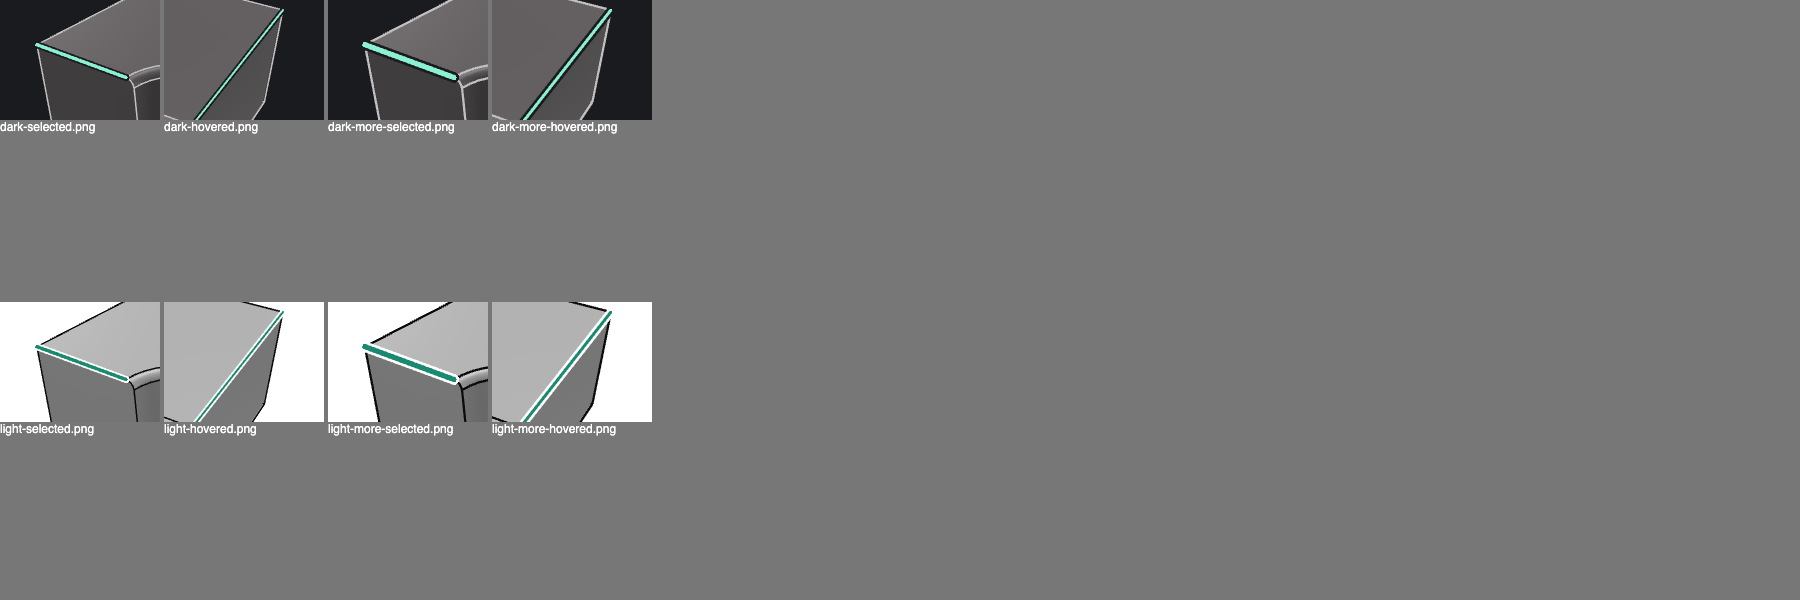
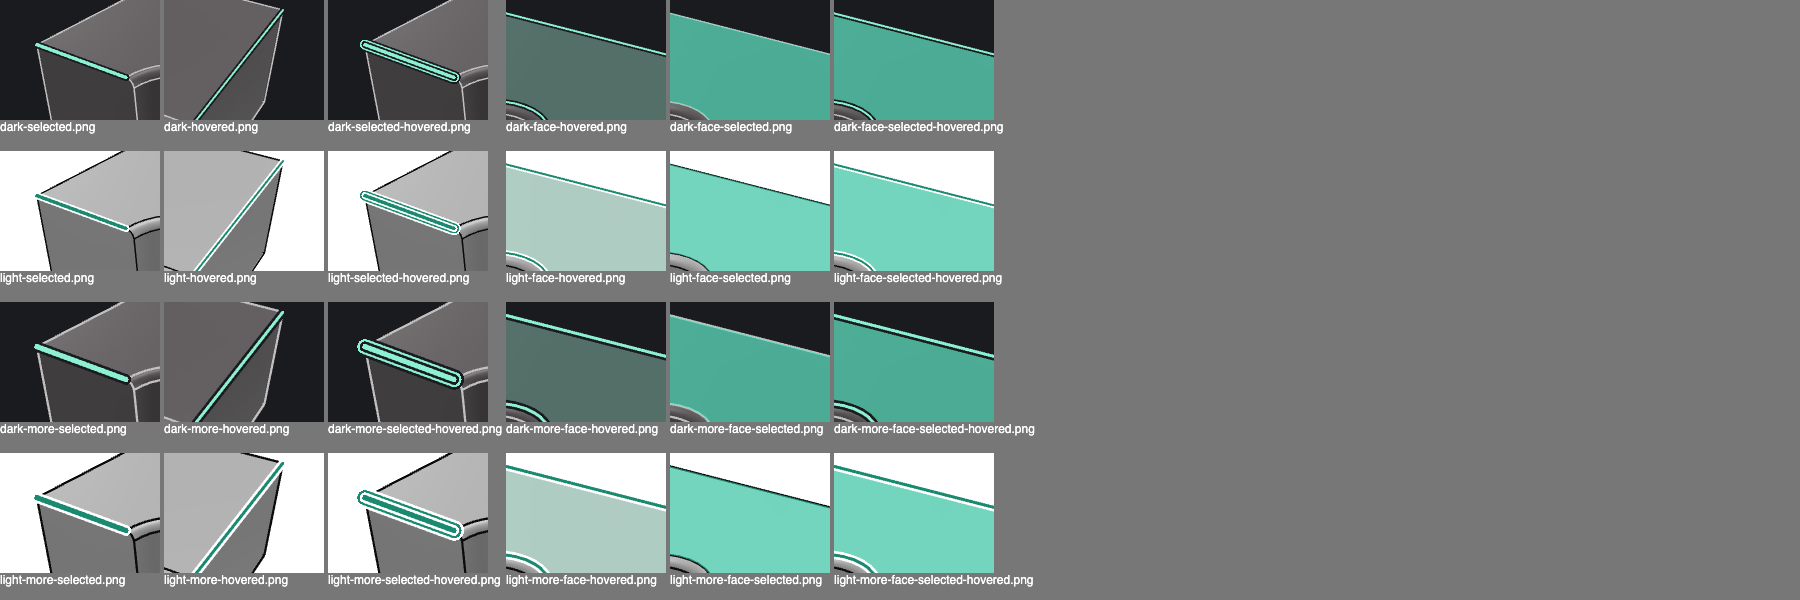
Show hover and selection together: a thin and a thick line
A selection is a thick line and a hover a thin one, and hovering a
selection adds the thin line, so both show: a hovered selected edge gets
a ring, a hovered face an outline (also over the selection's fill), and
timeline entries a 3 px outline when open, 1 px when hovered, and a line
inside the open one's when it is hovered. 1 px against 2 px around the
entries looked the same.

diff --git a/src/cad/src/components/Viewer.tsx b/src/cad/src/components/Viewer.tsx
@@ -164,6 +164,29 @@ const entityKey = (e: Entity | undefined) => (e ? `${e.body}:${e.kind}:${e.index
 const same = (a: Entity | undefined, b: Entity | undefined) => !!a && !!b && a.body === b.body && a.kind === b.kind && a.index === b.index;
 
 /**
+ * The outline of non-indexed triangles: the triangle edges that only one of them has. Vertices are
+ * matched by position, as a mesh repeats them along seams and between faces, so edges between two
+ * of the faces cancel out too.
+ */
+function outline(triangles: THREE.BufferGeometry): THREE.BufferGeometry {
+  const p = triangles.getAttribute("position");
+  const key = (i: number) => `${p.getX(i).toFixed(4)},${p.getY(i).toFixed(4)},${p.getZ(i).toFixed(4)}`;
+  const edges = new Map<string, [number, number] | undefined>();
+  for (let t = 0; t + 2 < p.count; t += 3) {
+    for (const [a, b] of [[t, t + 1], [t + 1, t + 2], [t + 2, t]] as const) {
+      const [ka, kb] = [key(a), key(b)];
+      const k = ka < kb ? `${ka}|${kb}` : `${kb}|${ka}`;
+      // A second triangle with this edge: it is inside.
+      if (edges.has(k)) edges.set(k, undefined);
+      else edges.set(k, [a, b]);
+    }
+  }
+  const values: number[] = [];
+  for (const edge of edges.values()) if (edge) for (const v of edge) values.push(p.getX(v), p.getY(v), p.getZ(v));
+  return new THREE.BufferGeometry().setAttribute("position", new THREE.Float32BufferAttribute(values, 3));
+}
+
+/**
  * A copy of the triangles or segments of the mesh groups whose entity is in `indices`, as a
  * non-indexed geometry of its own (a geometry that shares attributes would free them on dispose).
  */
@@ -270,7 +293,10 @@ export function Viewer(props: ViewerProps) {
     // A highlighted edge is a line over a wider halo in the theme's dark or light ink, whichever
     // contrasts with it, so one of the two contrasts with whatever is behind it.
     const inks = [themeColor(container, "--cad-model-bg"), themeColor(container, "--cad-model-fg")].sort((a, b) => luminance(a) - luminance(b));
-    const highlightLine = (color: THREE.Color, width: number) => ({ core: wideLine(color, width, true), halo: wideLine(luminance(color) > 0.35 ? inks[0]! : inks[1]!, width + 3.5, true) });
+    const inkFor = (color: THREE.Color) => (luminance(color) > 0.35 ? inks[0]! : inks[1]!);
+    const highlightLine = (color: THREE.Color, width: number) => ({ core: wideLine(color, width, true), halo: wideLine(inkFor(color), width + 3.5, true) });
+    // Hovering a selected edge adds the hover's thin line as a ring around the selection, in its halo.
+    const ringMaterials = { line: wideLine(accentLine, 10, true), halo: wideLine(inkFor(accentLine), 13.5, true) };
     // Hovered and selected edges have one colour; a hover is thinner.
     const highlightMaterials: Record<Exclude<HighlightStyle, "peer">, { face: THREE.Material; line: { core: LineMaterial; halo: LineMaterial } }> = {
       hover: { face: highlightFace(hover, 0.35), line: highlightLine(accentLine, 2) },
@@ -549,6 +575,10 @@ export function Viewer(props: ViewerProps) {
       highlightGroup.clear();
       const own = (entity: Entity | undefined, style: HighlightStyle): Highlight[] => (entity ? [{ body: entity.body, kind: entity.kind, indices: [entity.index], style }] : []);
       const all = [...(props.highlight ?? []), ...own(selected(), "accent"), ...own(hovered(), "hover")];
+      /** The selected edge is hovered: it gets the ring, and the hover no line of its own. */
+      const ringed = selected()?.kind === "edge" && same(selected(), hovered());
+      /** The selected face is hovered: it keeps the selection's fill, and gets the hover's outline. */
+      const hoveredSelectedFace = selected()?.kind === "face" && same(selected(), hovered());
       highlighted = all.flatMap((h) => h.indices.map((index) => ({ style: h.style, entity: { body: h.body, kind: h.kind, index } })));
       for (const h of all) {
         const r = h.shape ? undefined : rendered.find((x) => x.id === h.body);
@@ -567,11 +597,24 @@ export function Viewer(props: ViewerProps) {
         const geometry = subset(source, indexOf, h.indices);
         temporary?.dispose();
         const { face, line } = materialsOf(h);
-        if (h.kind === "face") highlightGroup.add(new THREE.Mesh(geometry, face));
-        else {
-          highlightGroup.add(Object.assign(wideSegments(geometry, line.halo), { renderOrder: 0 }), Object.assign(wideSegments(geometry, line.core), { renderOrder: 1 }));
-          geometry.dispose();
+        if (h.kind === "face") {
+          const ownHover = h.style === "hover" && h.indices.length === 1 && same({ body: h.body, kind: h.kind, index: h.indices[0]! }, hovered());
+          if (!(hoveredSelectedFace && ownHover)) highlightGroup.add(new THREE.Mesh(geometry, face));
+          // A hover, of a face or of a feature's faces, is outlined with the hover's thin line, also over a selection.
+          if (h.style === "hover") {
+            const edges = outline(geometry);
+            highlightGroup.add(...[line.halo, line.core].map((material, i) => Object.assign(wideSegments(edges, material), { renderOrder: i })));
+            edges.dispose();
+          }
+          if (hoveredSelectedFace && ownHover) geometry.dispose();
         }
+        else if (!(ringed && h.style === "hover" && same({ body: h.body, kind: h.kind, index: h.indices[0]! }, hovered()))) {
+          const ring = ringed && h.style === "accent" && same({ body: h.body, kind: h.kind, index: h.indices[0]! }, selected());
+          // Outermost first.
+          const layers = [...(ring ? [ringMaterials.halo, ringMaterials.line] : []), line.halo, line.core];
+          highlightGroup.add(...layers.map((material, i) => Object.assign(wideSegments(geometry, material), { renderOrder: i })));
+          geometry.dispose();
+        } else geometry.dispose();
       }
     });
 
@@ -915,7 +958,7 @@ export function Viewer(props: ViewerProps) {
       dotGeometry.dispose();
       pmrem.dispose();
       scene.environment?.dispose();
-      for (const m of [faceMaterial, edgeMaterial, lineMaterial, overlayMaterial, ...Object.values(highlightMaterials).flatMap((m) => [m.face, m.line.core, m.line.halo]), ...[...peerMaterials.values()].flatMap((m) => [m.face, m.line.core, m.line.halo, m.marker])]) m.dispose();
+      for (const m of [ringMaterials.line, ringMaterials.halo, faceMaterial, edgeMaterial, lineMaterial, overlayMaterial, ...Object.values(highlightMaterials).flatMap((m) => [m.face, m.line.core, m.line.halo]), ...[...peerMaterials.values()].flatMap((m) => [m.face, m.line.core, m.line.halo, m.marker])]) m.dispose();
       renderer.dispose();
     });
   });

diff --git a/src/harness/e2e/tests/cad-render-shots.spec.ts b/src/harness/e2e/tests/cad-render-shots.spec.ts
@@ -16,10 +16,10 @@ test.use({ siteModules: CAD_MODULES, viewport: { width: 900, height: 700 } });
 
 const viewer = (page: Page) => page.locator(".cad-model__viewer").first();
 type Hook = { cadViewer: { screenPoint(e: Entity): { x: number; y: number } | undefined; centroid(e: Entity): number[] | undefined } };
-/** The visible edge whose centroid is nearest to a point of M1 (a 60 × 40 × 20 block, seen from the front right). */
-async function edgeNear(page: Page, near: [number, number, number]): Promise<Entity> {
+/** The visible edge or face whose centroid is nearest to a point of M1 (a 60 × 40 × 20 block, seen from the front right). */
+async function edgeNear(page: Page, near: [number, number, number], kind: "edge" | "face" = "edge"): Promise<Entity> {
   let best: { e: Entity; d: number } | undefined;
-  for (const e of await entities(page, "edge")) {
+  for (const e of await entities(page, kind)) {
     const c = await viewer(page).evaluate((el, x) => (el as unknown as Hook).cadViewer.centroid(x), e);
     const d = c ? Math.hypot(c[0]! - near[0], c[1]! - near[1], c[2]! - near[2]) : Infinity;
     if ((!best || d < best.d) && (await isVisible(page, e))) best = { e, d };
@@ -68,7 +68,36 @@ for (const [colorScheme, contrast] of [["dark", "no-preference"], ["light", "no-
         await page.waitForTimeout(300);
         await viewer(page).screenshot({ path: `${dir}/${mode}.png` });
         // Details around both edges, for the edges themselves.
-        for (const [name, p] of [["selected", s], ["hovered", h]] as const) await page.screenshot({ path: `${dir}/${mode}-${name}.png`, clip: { x: p.x - 80, y: p.y - 60, width: 160, height: 120 } });
+        const detail = (name: string, p: { x: number; y: number }) => page.screenshot({ path: `${dir}/${mode}-${name}.png`, clip: { x: p.x - 80, y: p.y - 60, width: 160, height: 120 } });
+        await detail("selected", s);
+        await detail("hovered", h);
+        // Hovering the selected edge, and a selected face.
+        await page.mouse.move(s.x, s.y);
+        await expect(viewer(page)).toHaveAttribute("data-hovered", `${selected.body}:edge:${selected.index}`);
+        await page.waitForTimeout(300);
+        await detail("selected-hovered", s);
+        const top = await edgeNear(page, [45, 25, 20], "face");
+        const t = (await screenPoint(page, top))!;
+        // Hovered alone first; the edge stays selected.
+        await page.mouse.move(t.x, t.y);
+        await expect(viewer(page)).toHaveAttribute("data-hovered", `${top.body}:face:${top.index}`);
+        await page.waitForTimeout(300);
+        await detail("face-hovered", t);
+        await page.mouse.click(t.x, t.y);
+        await expect(viewer(page)).toHaveAttribute("data-selected", `${top.body}:face:${top.index}`);
+        await page.waitForTimeout(300);
+        await detail("face-selected-hovered", t);
+        await page.mouse.move(5, 5);
+        await page.waitForTimeout(300);
+        await detail("face-selected", t);
+        // The timeline: sketch2 open, sketch1 hovered; then sketch2 hovered too.
+        const timeline = page.locator(".cad-editor__timeline-wrap");
+        await timelineEntry(page, "sketch2").click();
+        await timelineEntry(page, "sketch1").hover();
+        await timeline.screenshot({ path: `${dir}/${mode}-timeline.png` });
+        await timelineEntry(page, "sketch2").hover();
+        await timeline.screenshot({ path: `${dir}/${mode}-timeline-open-hovered.png` });
+        await timelineEntry(page, "sketch2").click();
         // From the back left and above, where the fixed light doesn't reach the faces in view.
         await clickViewCube(page, [-1, 1, 1]);
         await expect(viewer(page)).toHaveAttribute("data-turning", "false");

diff --git a/src/cad/src/styles.css b/src/cad/src/styles.css
@@ -625,15 +625,23 @@
   filter: grayscale(1);
 }
 
-/* The hovered, dragged or open entry stands out most, the open one thicker, as a selected edge; what it relates to gets a coloured border. */
-.cad-editor__entry[data-focused="true"] {
+/*
+ * As hovered and selected edges (research/14): the open entry has a thick outline, the hovered or
+ * dragged one a thin one, and hovering the open one adds the thin line inside the thick one; outside,
+ * the scrolling timeline would clip it. What the focused entry relates to gets a coloured border.
+ */
+.cad-editor__entry[data-hovered="true"] {
   outline: 1px solid var(--cad-model-fg);
-  outline-offset: 1px;
+  outline-offset: 2px;
 }
 
 .cad-editor__entry[aria-pressed="true"] {
-  outline: 2px solid var(--cad-model-fg);
+  outline: 3px solid var(--cad-model-fg);
   outline-offset: 1px;
+}
+
+.cad-editor__entry[aria-pressed="true"][data-hovered="true"] {
+  box-shadow: inset 0 0 0 1px var(--cad-model-fg);
 }
 
 .cad-editor__entry[data-relation="dependency"] {

diff --git a/src/harness/e2e/tests/cad-timeline.spec.ts b/src/harness/e2e/tests/cad-timeline.spec.ts
@@ -268,7 +268,7 @@ test("highlights keep their colours past the marker, and the focused entry stand
   // The hovered entry gets a thin outline, the open one a thick outline and no extra border, as hovered and selected edges.
   expect(await style(timelineEntry(page, "notch"))).toMatchObject({ outline: "solid 1px" });
   const open = await style(timelineEntry(page, "chamfer1"));
-  expect(open.outline).toBe("solid 2px");
+  expect(open.outline).toBe("solid 3px");
   // chamfer1 is past the marker and depends on notch through a reference: a solid border in the dependent colour, not greyed.
   expect(open).toMatchObject({ border: open.warning, borderStyle: "solid", filter: "none" });
   // fillet1, before the marker, depends on notch, too (body and reference).

diff --git a/src/cad/src/components/editor/state.ts b/src/cad/src/components/editor/state.ts
@@ -57,6 +57,7 @@ export interface Editor {
   /** Where another marker, e.g. a collaborator's, is in the timeline. */
   markerOf(marker: TimelineMarker | undefined): number;
   /** The entry being hovered or dragged in the timeline. */
+  hovered: Accessor<number | undefined>;
   setHovered(index: number | undefined): void;
   setDragging(index: number | undefined): void;
   dragging: Accessor<number | undefined>;
@@ -477,6 +478,7 @@ export function createEditor(handle: DocHandle<CadModelDoc>, model: Model, ui: P
     marker,
     markerOf: (m: TimelineMarker | undefined) => (syntaxError() ? tl().entries.length : markerIn(tl(), m)),
     setMarker,
+    hovered: () => dragging() ?? hovered(),
     setHovered,
     setDragging,
     dragging,

diff --git a/src/cad/src/components/editor/Timeline.tsx b/src/cad/src/components/editor/Timeline.tsx
@@ -296,6 +296,9 @@ export function Timeline(props: { editor: Editor; onOpenCode: (span: Span) => vo
     get "data-focused"() {
       return editor.focused() === index ? "true" : undefined;
     },
+    get "data-hovered"() {
+      return editor.hovered() === index ? "true" : undefined;
+    },
     get "data-cross-hover"() {
       return editor.crossHovered().has(index) ? "true" : undefined;
     },

diff --git a/research/14-edge-contrast.md b/research/14-edge-contrast.md
@@ -38,6 +38,8 @@ Screenshots of M1 with the top's front edge selected and its right edge hovered,
 - **A grey body makes plain edges readable** in both modes and from every side. studio also keeps faces apart, top lighter than sides, and its reflections move with the camera, as in Fusion. matcap separates faces less, and its shading, derived from the same grey, makes it too dark in light mode.
 - **Wide lines alone don't fix highlights:** a 3.5 px line in the accent colour still vanishes on a face of similar lightness (fat).
 - **A halo in the contrasting ink does:** every highlight is a light line on dark or a dark line on light, so one of the two tones contrasts with whatever is behind it: faces, background and other edges, in both modes. A halo in the background colour, tried first, fails for the hover colour, which is the accent mixed towards the background, so core and halo were alike.
+- **Hover by weight** must differ a lot: around timeline entries, a 1 px outline next to a 2 px one looked the same.
+- **Hover over a selection** must show too: a hover line under or inside the selection's is hidden.
 - **Hover by hue** is unmistakable, but the theme has no hue to spare. Every theme defines primary, secondary, danger, warning and link (`--studio-*`); primary marks selections, secondary comments ([13](13-collaboration.md#comments)), warning a feature's dependents, danger errors, and link is another blue. Syntax colours exist only in some themes: in the base theme `--syntax-keyword: var(--text-editor-line)`, and so are the others. Any hue can also be a collaborator's presence colour. So hover differs by weight.
 
 ## The rendering
@@ -46,13 +48,17 @@ Screenshots of M1 with the top's front edge selected and its right edge hovered,
 
 - **Bodies** are the studio variant: `--cad-model-shape` is the background mixed with 30 % of the text colour, roughness 0.45, metalness 0.15, under a hemisphere light, a key light above and left of the camera that follows it, and a room environment at intensity 0.35.
 - **Edges** are 1.5 px in the text colour, 15 % towards the background (`--cad-model-edge`). Picking still raycasts the 1 px lines, which aren't drawn.
-- **Hovered and selected edges** share the accent's text colour; hover is 2 px, a selection 3.5 px, a collaborator's 3 px in their colour, each over a halo 3.5 px wider in the darker of background and text colour if the line is light (luminance > 0.35), else the lighter.
-- **The timeline** follows the same rule: the hovered entry gets a 1 px outline, the open one 2 px.
+- **One rule for hover and selection:** a selection is a thick line, a hover a thin one, and hovering a selection adds the thin line to the thick one, so both show.
+  - **Edges** share the accent's text colour; hover is 2 px, a selection 3.5 px, a collaborator's 3 px in their colour, each over a halo 3.5 px wider in the darker of background and text colour if the line is light (luminance > 0.35), else the lighter. A hovered selection gets a 10 px accent ring in a 13.5 px halo around it.
+  - **Faces** keep their fills, hover pale and selection in the accent, and a hover is outlined with the hover's line: the triangle edges of the hovered faces that only one triangle has, by position, so a hovered feature's faces get one outline. A hovered selected face keeps the selection's fill and gets the outline.
+  - **Timeline entries:** the open one has a 3 px outline, the hovered or dragged one 1 px, 2 px off it; hovering the open one adds a 1 px line inside it, where the scrolling timeline doesn't clip it.
 - **`prefers-contrast: more`** makes every line 1.5 times wider.
 
 ![The result: dark and light mode, home view and turned](14-edge-contrast/result.png)
 
-![Selected and hovered edge: dark, then light; each without and with prefers-contrast: more](14-edge-contrast/result-details.png)
+![Per row: selected edge, hovered edge, hovered selected edge, hovered face, selected face, hovered selected face; rows dark, light, then both with prefers-contrast: more](14-edge-contrast/result-details.png)
+
+![The timeline with sketch2 open: sketch1 hovered, then sketch2 hovered; dark, then light](14-edge-contrast/result-timeline.png)
 
 [`cad-render-shots.spec.ts`](../src/harness/e2e/tests/cad-render-shots.spec.ts) takes these screenshots:
 
@@ -63,5 +69,4 @@ CAD_RENDER_SHOTS=<dir> pnpm test:e2e --project=chromium --workers=1 cad-render-s
 ## Open
 
 - The grey's lightness per mode, e.g. lighter in light mode; with more contrast, a grey further from the background.
-- Highlighted faces are unchanged: hover pale, selection in the accent.
 - The sketch outline in the view is still a 1 px line.

diff --git a/research/12-hover-highlighting.md b/research/12-hover-highlighting.md
@@ -11,7 +11,7 @@ Hovering shows how a model is built: the 3D view always hovers faces and edges, 
 ## Design
 
 - **The 3D view always hovers.** Without a pick target, an edge under the pointer wins, else the face ([`Viewer.tsx`](../src/cad/src/components/Viewer.tsx)). Shapes that aren't feature-library bodies (plain replicad, [11](11-adopting-shapes.md)) hover too, by mesh group, but have no names.
-- **Every highlight shows through the model:** a translucent copy of the entities' triangles and segments, drawn without depth test over the opaque model. So a hovered feature's faces also show where other faces hide them, and the model is never painted over. Hovered faces are pale (`--cad-model-hover`); selected faces and the resolved references of a feature being picked ([07](07-poc-modelling-ui.md#the-editor)) are in the accent colour. Hovered and selected edges share the accent colour and a halo, a hover thinner ([14](14-edge-contrast.md#the-rendering)).
+- **Every highlight shows through the model:** a translucent copy of the entities' triangles and segments, drawn without depth test over the opaque model. So a hovered feature's faces also show where other faces hide them, and the model is never painted over. Hovered faces are pale (`--cad-model-hover`); selected faces and the resolved references of a feature being picked ([07](07-poc-modelling-ui.md#the-editor)) are in the accent colour. Hovered and selected edges share the accent colour and a halo, a hover thinner, and hovered faces are outlined with the hover's line ([14](14-edge-contrast.md#the-rendering)).
 - **The editor names entities** in the status bar, as a pick would write them (`extrude1.side.front.piece(notch, 2, { near: […] })`, [`WysiwygEditor.tsx`](../src/cad/src/components/editor/WysiwygEditor.tsx)). A click outside of picking selects the face or edge under the pointer, and a click elsewhere in the view clears it; the status bar shows the selection's name, with a Copy button, else the hovered one's. A name costs one `pick` request to the worker, for a hover after the pointer rests for 100 ms. The viewer tool hovers without names, since it is for looking at a model, not for writing it.
 - **A feature owns the faces it created or split**, read from the history names ([03](03-topological-naming.md), `owners` in [`runtime.ts`](../src/features/src/runtime.ts)): the base of a name names the feature that created the face, and each `.piece(op, k)` a feature that split it. Its edges are those along its faces. The worker sends each shown body's owners with its mesh, so hovering a feature needs no request.
 

diff --git a/research/00-status.md b/research/00-status.md
@@ -14,7 +14,7 @@
 | [11-adopting-shapes.md](11-adopting-shapes.md) | `body()`: replicad shapes as bodies of the feature library; context menus in the timeline | Done. Open: history of adopted library bodies, scalar calculations; touch deferred |
 | [12-hover-highlighting.md](12-hover-highlighting.md) | Hovering and selecting faces, edges and features; see-through highlights, also past the marker; cross-hover between view, timeline and code | Done. Open: faces a feature only modifies, highlights in large models |
 | [13-collaboration.md](13-collaboration.md) | Presence (cursors, selections, markers in each collaborator's colour) and comments on code, faces, edges and features; deleted targets | Presence and comments done (editor and viewer). Open: presence provider upstream, follow mode, Patchwork release with patchwork-system#451 (presence lost in 0.8.4, #450), comments outside Patchwork |
-| [14-edge-contrast.md](14-edge-contrast.md) | Rendering bodies and edges so that edges, hovered and selected ones, read in every theme | Done (grey bodies lit from the camera, wide edges, haloed highlights, hover thinner than selection). Open: the grey per mode, face highlights, sketch outlines |
+| [14-edge-contrast.md](14-edge-contrast.md) | Rendering bodies and edges so that edges, hovered and selected ones, read in every theme | Done (grey bodies lit from the camera, wide edges, haloed highlights; hover a thin line, selection a thick one, both together on a hovered selection). Open: the grey per mode, sketch outlines |
 
 ## Not started
 
